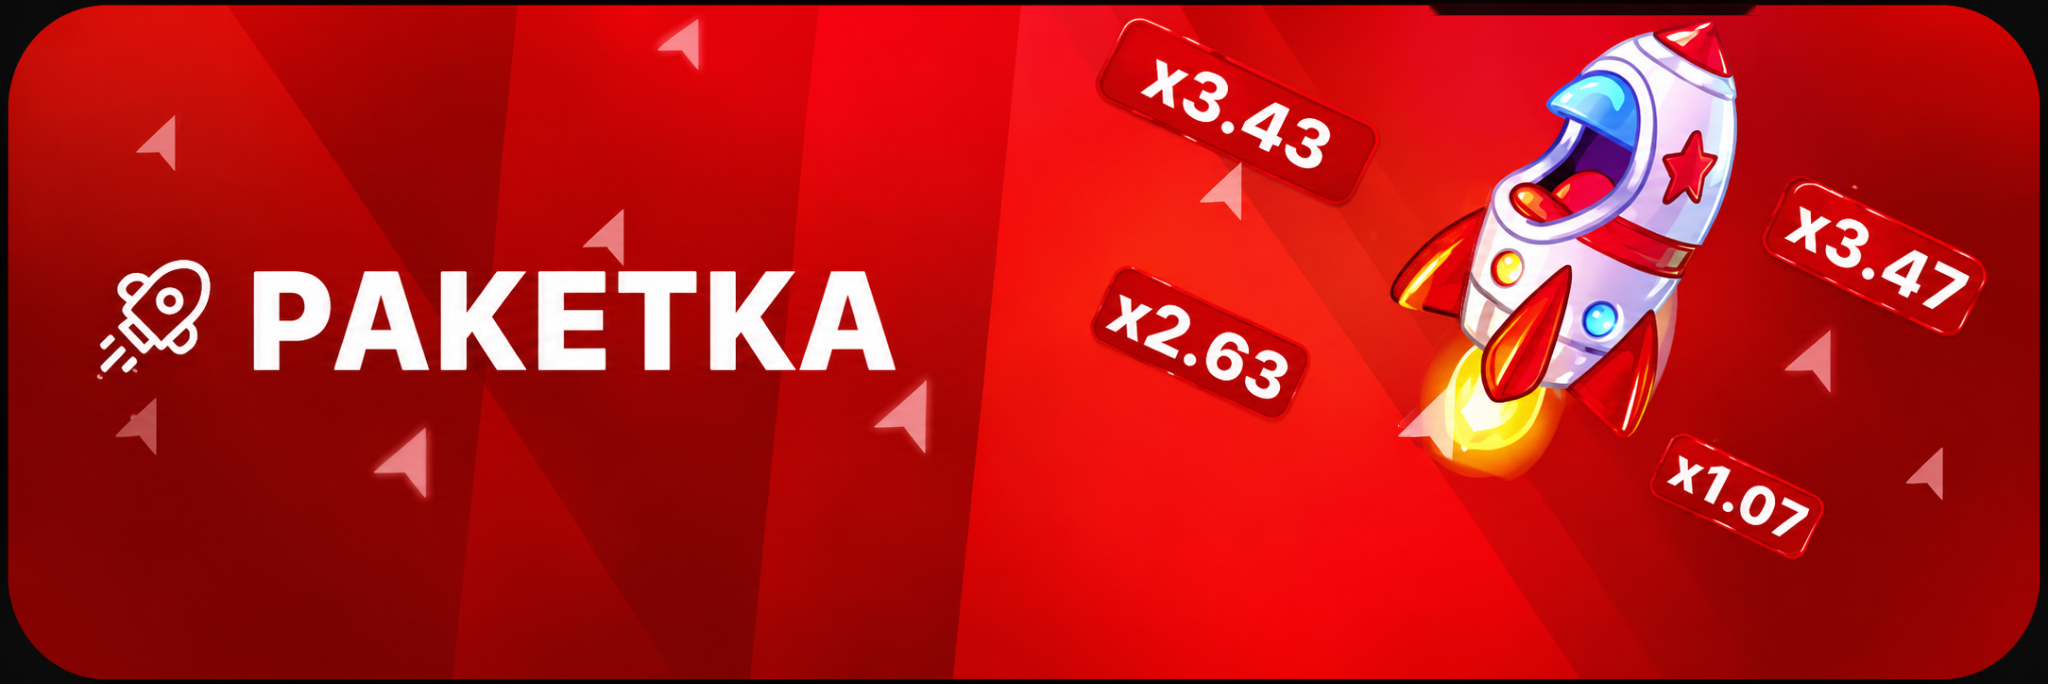
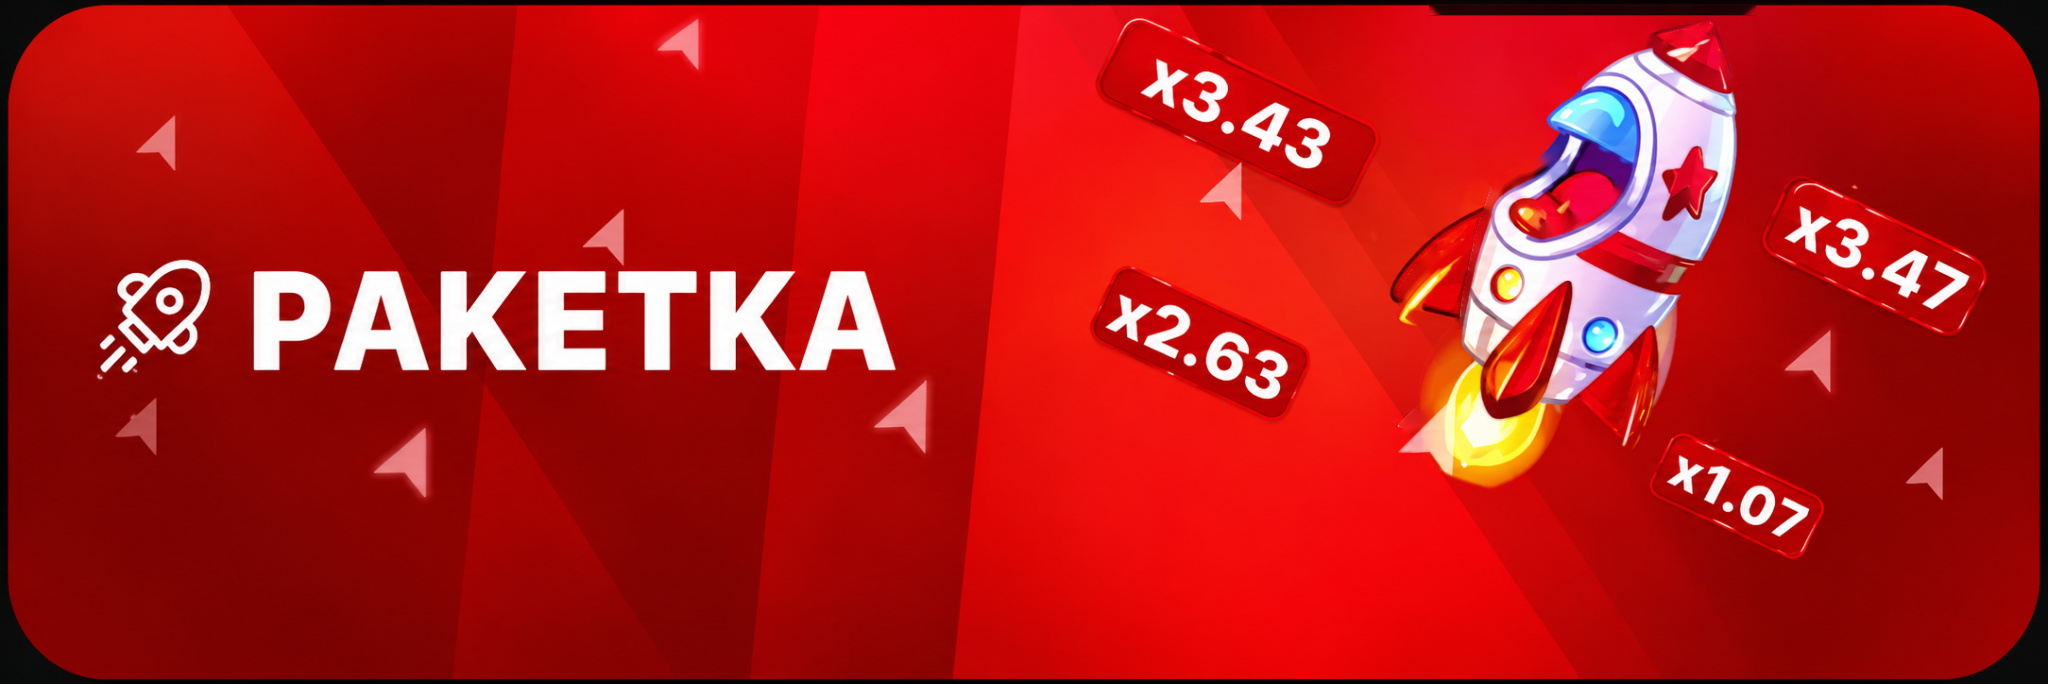
Add files via upload

Changed region(s): [[0.6562, 0.0307, 0.875, 0.7061]]

diff --git a/frontend/app.html b/frontend/app.html
@@ -1148,6 +1148,14 @@
 .top-live-ton{background-image:url('https://encrypted-tbn0.gstatic.com/images?q=tbn:ANd9GcTbwZ16_FSeuTox1STSRl235pNMAuF-AjRH4pD5-ag6FQ&s=10'),url('assets/gram_coin_fallback.png'),url('assets/gram_coin.svg')!important;background-size:100% 100%,100% 100%,100% 100%!important;background-position:center!important;background-repeat:no-repeat!important;color:transparent!important;font-size:0!important;}
 .gram-coin svg{display:none!important;}
 </style>
+
+<style id="final-banner-tuning-v58">
+/* Keep the supplied artwork intact; give ICE ARENA a tiny amount of extra width. */
+.ice-arena-home.reference-banner{width:102%;margin-left:-1%;}
+.ice-arena-home .ice-arena-banner-img{width:100%!important;height:auto!important;}
+/* Move only the supplied PAKETKA artwork down by increasing the visible banner breathing room. */
+.home-banner.paketka-banner{padding-top:2px!important;}
+</style>
 </head>
 <body>
 <div class="phone">

diff --git a/frontend/index.html b/frontend/index.html
@@ -1148,6 +1148,14 @@
 .top-live-ton{background-image:url('https://encrypted-tbn0.gstatic.com/images?q=tbn:ANd9GcTbwZ16_FSeuTox1STSRl235pNMAuF-AjRH4pD5-ag6FQ&s=10'),url('assets/gram_coin_fallback.png'),url('assets/gram_coin.svg')!important;background-size:100% 100%,100% 100%,100% 100%!important;background-position:center!important;background-repeat:no-repeat!important;color:transparent!important;font-size:0!important;}
 .gram-coin svg{display:none!important;}
 </style>
+
+<style id="final-banner-tuning-v58">
+/* Keep the supplied artwork intact; give ICE ARENA a tiny amount of extra width. */
+.ice-arena-home.reference-banner{width:102%;margin-left:-1%;}
+.ice-arena-home .ice-arena-banner-img{width:100%!important;height:auto!important;}
+/* Move only the supplied PAKETKA artwork down by increasing the visible banner breathing room. */
+.home-banner.paketka-banner{padding-top:2px!important;}
+</style>
 </head>
 <body>
 <div class="phone">
